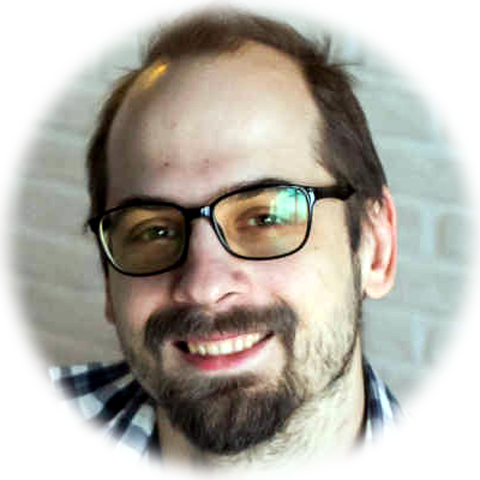
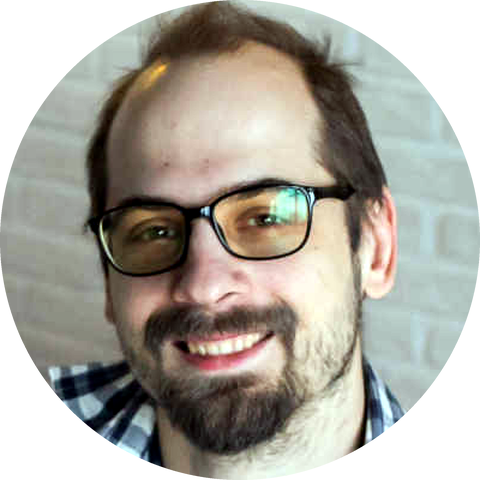
Photo: sharp circular edge instead of soft alpha fade

Changed region(s): [[0.0, 0.0, 1.0, 1.0]]

diff --git a/src/landing.css b/src/landing.css
@@ -122,7 +122,7 @@ a.al::after{content:' →';color:var(--accent);font-family:var(--mono);font-weig
   text-decoration:none;color:var(--ink);font-family:var(--sans);font-size:clamp(22px,2.4vw,32px);font-weight:600;letter-spacing:-.02em;white-space:nowrap}   /* 28.10: тёмная кнопка поверх облака */
 @media (hover:hover){.space__name:hover{color:var(--accent);border-color:var(--dim)}}
 
-/* фото (02.11): круг между кейсами и следующим блоком, ч/б, край растворяется — src/brand/photo.png из tools/photo.py */
+/* фото (02.11): круг между кейсами и следующим блоком, ч/б, край чёткий (03.11) — src/brand/photo.png из tools/photo.py */
 .photo{padding:0 0 clamp(24px,3vw,40px);margin-top:clamp(-90px,-6vw,-40px);border-top:0}   /* без своей линии сверху и без лишнего воздуха: фото заходит в нижний отступ кейсов (02.11) */
 .photo .wrap{display:flex;justify-content:flex-end}
 .photo__box{display:flex;flex-direction:column;align-items:center;gap:10px}

diff --git a/tools/photo.py b/tools/photo.py
@@ -1,20 +1,20 @@
 #!/usr/bin/env python3
-"""Фото для главной (02.11.2026): круг по лицу из снимка, ч/б, край ~10 px с плавным нарастанием прозрачности.
+"""Фото для главной (02.11.2026): круг по лицу из снимка, ч/б, край чёткий (03.11: вместо размытого края 10 px — граница по его дальней стороне, круг во весь кадр).
    python3 -I tools/photo.py <исходник.jpg> [cx cy r] -> src/brand/photo.png (2x: 480 px, на странице ~240; цветной, ч/б — CSS)."""
 import sys
-from PIL import Image, ImageFilter, ImageOps
+from PIL import Image, ImageOps
 
 src = sys.argv[1]
 cx, cy, r = (int(x) for x in sys.argv[2:5]) if len(sys.argv) >= 5 else (330, 310, 185)
-OUT, EDGE = 480, 10 * 2            # вывод 480 px = 2x от 240 на странице; край 10 px на странице = 20 px здесь
+OUT, SS = 480, 4                    # вывод 480 px = 2x от 240 на странице; маска рисуется в 4x и сжимается — сглаженный, но чёткий край
 im = Image.open(src).convert('RGB')
 box = (cx - r, cy - r, cx + r, cy + r)
 im = im.crop(box).resize((OUT, OUT), Image.LANCZOS)
 im = ImageOps.autocontrast(im, cutoff=1)          # цвет; ч/б делает CSS (filter), по наведению цвет возвращается (его слово 02.11)
-mask = Image.new('L', (OUT, OUT), 0)
 from PIL import ImageDraw
-ImageDraw.Draw(mask).ellipse((EDGE // 2, EDGE // 2, OUT - EDGE // 2, OUT - EDGE // 2), fill=255)
-mask = mask.filter(ImageFilter.GaussianBlur(EDGE / 2.5))     # плавный край
+mask = Image.new('L', (OUT * SS, OUT * SS), 0)
+ImageDraw.Draw(mask).ellipse((0, 0, OUT * SS - 1, OUT * SS - 1), fill=255)   # чёткий край по дальней стороне бывшего размытия (03.11)
+mask = mask.resize((OUT, OUT), Image.LANCZOS)
 
 
 out = im.convert('RGBA'); out.putalpha(mask)
